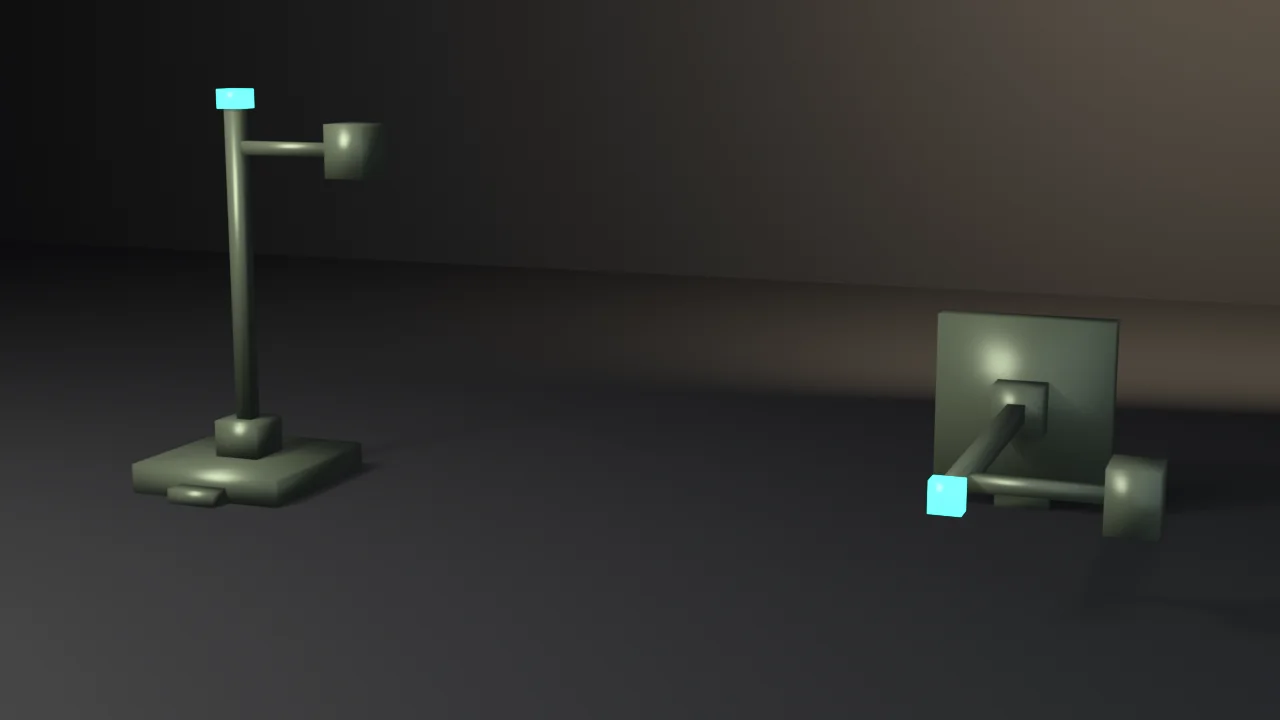
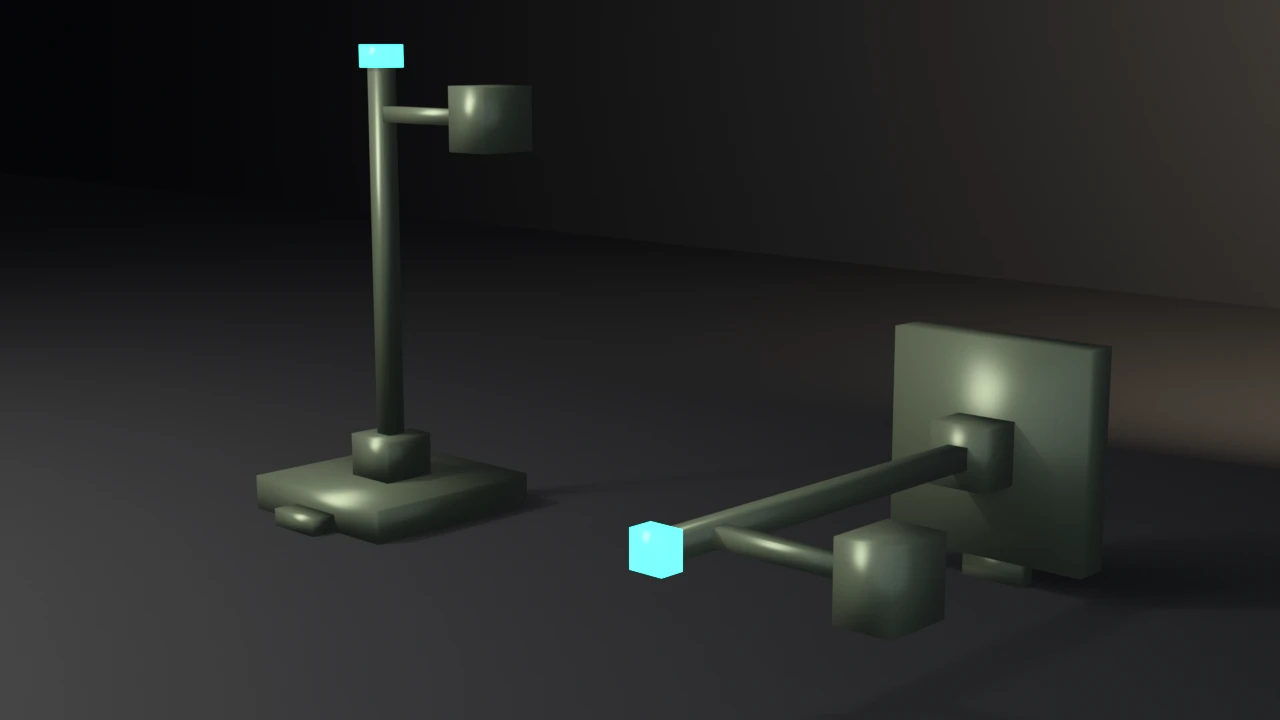
fix(examples): export-preset-axis still shows the lying beacon in profile
Render path only: props moved together and the camera made oblique so the
Godot reimport's mast reads along its length. The check, its assertions
and exit codes are unchanged.

diff --git a/docs/gallery/export-preset-axis/index.html b/docs/gallery/export-preset-axis/index.html
@@ -697,8 +697,10 @@ GODOT_KWARGS[<span class="s">&quot;export_yup&quot;</span>] = <span class="k">Fa
     scene = bpy.context.scene
     source.hide_render = <span class="k">True</span>
     source.hide_viewport = <span class="k">True</span>
-    sit_on_floor(unity_objs, -<span class="n">2.15</span>, <span class="n">0.0</span>)
-    sit_on_floor(godot_objs, <span class="n">1.95</span>, <span class="n">0.0</span>)
+    <span class="c"># Closer together: at -2.15 / +1.95 the pair left an empty metre of floor</span>
+    <span class="c"># between them, and each prop was small in its half of the frame.</span>
+    sit_on_floor(unity_objs, -<span class="n">1.35</span>, <span class="n">0.0</span>)
+    sit_on_floor(godot_objs, <span class="n">1.35</span>, <span class="n">0.0</span>)
 
     floor_me = bpy.data.meshes.new(<span class="s">&quot;Floor&quot;</span>)
     bm = bmesh.new()
@@ -734,10 +736,14 @@ GODOT_KWARGS[<span class="s">&quot;export_yup&quot;</span>] = <span class="k">Fa
     cam_data = bpy.data.cameras.new(<span class="s">&quot;Cam&quot;</span>)
     cam_data.lens = <span class="n">50.0</span>
     cam = bpy.data.objects.new(<span class="s">&quot;Cam&quot;</span>, cam_data)
-    cam.location = (<span class="n">3.12</span>, -<span class="n">8.15</span>, <span class="n">2.45</span>)
+    <span class="c"># Oblique rather than straight down +Y: the Godot reimport lies with its</span>
+    <span class="c"># mast along -Y, and a camera looking along Y foreshortened that mast to</span>
+    <span class="c"># a stub in front of the base plate, so the one thing the check proves</span>
+    <span class="c"># (it lies) barely read. From the side-front the mast shows its length.</span>
+    cam.location = (<span class="n">4.9</span>, -<span class="n">5.1</span>, <span class="n">2.2</span>)
     scene.collection.objects.link(cam)
     aim = bpy.data.objects.new(<span class="s">&quot;Aim&quot;</span>, <span class="k">None</span>)
-    aim.location = (<span class="n">0.0</span>, <span class="n">0.0</span>, <span class="n">0.85</span>)
+    aim.location = (<span class="n">0.40</span>, -<span class="n">0.30</span>, <span class="n">1.00</span>)
     scene.collection.objects.link(aim)
     con = cam.constraints.new(<span class="s">&quot;TRACK_TO&quot;</span>)
     con.target = aim

diff --git a/examples/export-preset-axis/export_preset_axis.py b/examples/export-preset-axis/export_preset_axis.py
@@ -391,8 +391,10 @@ def render_still(source, unity_objs, godot_objs, path, engine):
     scene = bpy.context.scene
     source.hide_render = True
     source.hide_viewport = True
-    sit_on_floor(unity_objs, -2.15, 0.0)
-    sit_on_floor(godot_objs, 1.95, 0.0)
+    # Closer together: at -2.15 / +1.95 the pair left an empty metre of floor
+    # between them, and each prop was small in its half of the frame.
+    sit_on_floor(unity_objs, -1.35, 0.0)
+    sit_on_floor(godot_objs, 1.35, 0.0)
 
     floor_me = bpy.data.meshes.new("Floor")
     bm = bmesh.new()
@@ -428,10 +430,14 @@ def render_still(source, unity_objs, godot_objs, path, engine):
     cam_data = bpy.data.cameras.new("Cam")
     cam_data.lens = 50.0
     cam = bpy.data.objects.new("Cam", cam_data)
-    cam.location = (3.12, -8.15, 2.45)
+    # Oblique rather than straight down +Y: the Godot reimport lies with its
+    # mast along -Y, and a camera looking along Y foreshortened that mast to
+    # a stub in front of the base plate, so the one thing the check proves
+    # (it lies) barely read. From the side-front the mast shows its length.
+    cam.location = (4.9, -5.1, 2.2)
     scene.collection.objects.link(cam)
     aim = bpy.data.objects.new("Aim", None)
-    aim.location = (0.0, 0.0, 0.85)
+    aim.location = (0.40, -0.30, 1.00)
     scene.collection.objects.link(aim)
     con = cam.constraints.new("TRACK_TO")
     con.target = aim
